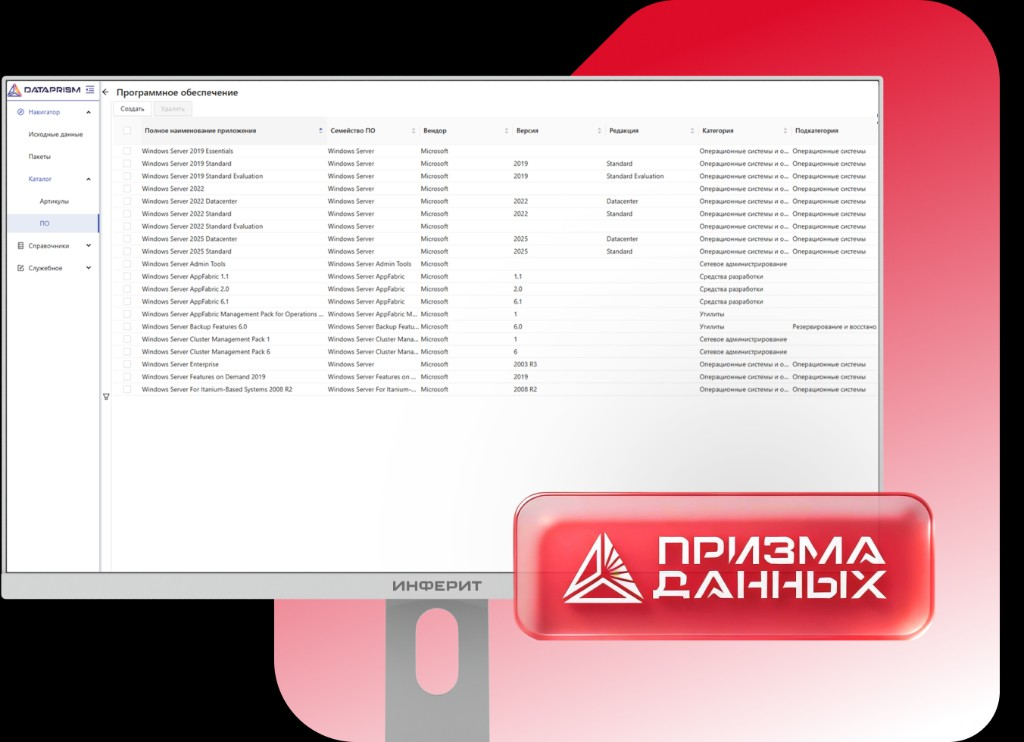
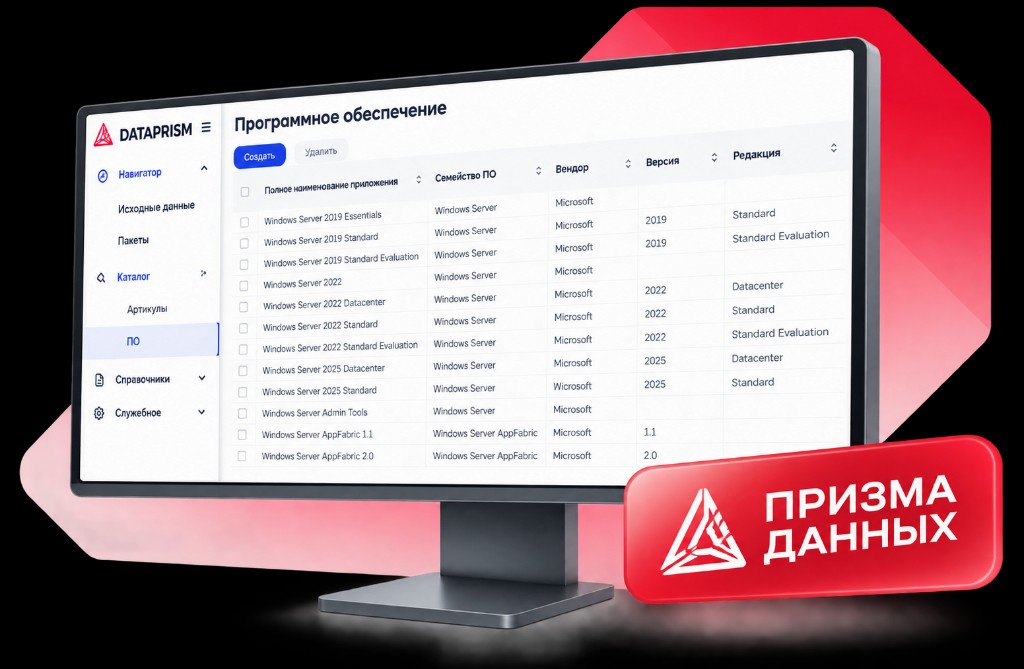
Update Prism monitor illustration in catalog block.

diff --git a/kabinet-diagnostiki/index.html b/kabinet-diagnostiki/index.html
@@ -7,12 +7,12 @@
   <title>Кабинет диагностики — Клиника чистых данных | ИТМен</title>
   <meta name="description" content="Бесплатный кабинет диагностики базы ПО и лицензий: загрузите выгрузку, получите карту состояния базы. Данные не покидают ваш компьютер.">
   <link rel="icon" href="assets/logo.svg" type="image/svg+xml">
-  <link rel="stylesheet" href="styles.css?v=115">
+  <link rel="stylesheet" href="styles.css?v=116">
 </head>
 <body>
 
 <section class="hero">
-  <img class="hero__bg" src="assets/hero-clinic.png?v=115" alt="" width="1670" height="725" decoding="async" aria-hidden="true">
+  <img class="hero__bg" src="assets/hero-clinic.png?v=116" alt="" width="1670" height="725" decoding="async" aria-hidden="true">
   <div class="hero__veil" aria-hidden="true"></div>
 
   <div class="wrap hero__inner">
@@ -115,10 +115,10 @@
   </div>
 </footer>
 
-<script src="core-data.js?v=115"></script>
-<script src="engine.js?v=115"></script>
-<script src="reconcile.js?v=115"></script>
-<script src="ui.js?v=115"></script>
-<script src="ui-reconcile.js?v=115"></script>
+<script src="core-data.js?v=116"></script>
+<script src="engine.js?v=116"></script>
+<script src="reconcile.js?v=116"></script>
+<script src="ui.js?v=116"></script>
+<script src="ui-reconcile.js?v=116"></script>
 </body>
 </html>

diff --git a/kabinet-diagnostiki/ui-reconcile.js b/kabinet-diagnostiki/ui-reconcile.js
@@ -103,7 +103,7 @@ function renderReconcile(rec, core) {
         </div>
       </div>
       <div class="rc-hero__visual">
-        <img class="rc-monitor" src="assets/prism-monitor.jpg?v=115" alt="Экран каталога «Призма данных»" width="520" height="380" decoding="async">
+        <img class="rc-monitor" src="assets/prism-monitor.jpg?v=116" alt="Экран каталога «Призма данных»" width="520" height="380" decoding="async">
       </div>
     </div>
 
